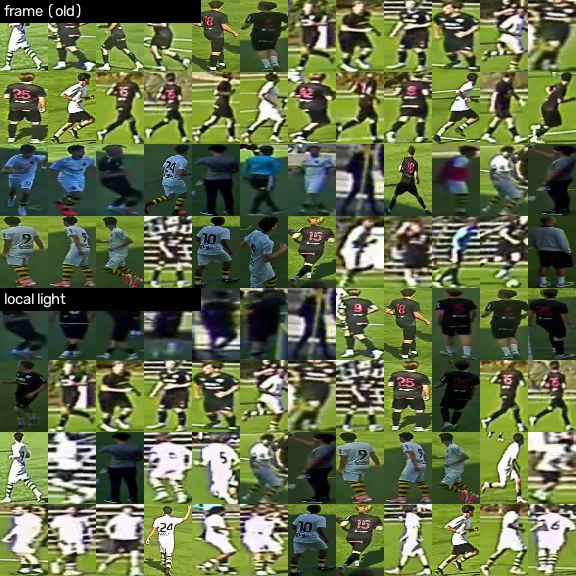
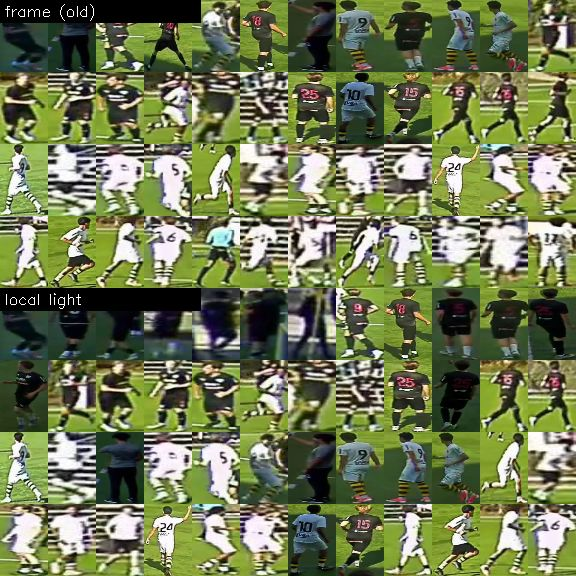
kits: P2b edge fallback only in even light (Vallentuna sun: bench let in, fit became sun vs shade); sun-washed people join the kit of their colour in local light (Vallentuna neither 3.5 -> 2.4 per frame, other grounds unchanged) [qa-frames:p15u-vs-vallentuna-2026-10-03-6cce] [full:SFKBP1109] [allow-
[full:SFKBP1109]: clean re-export of the first half with the current code (event tiers, pressed, Veo window filter:
no 'goal' at 0:28, no second-half goals); pieces cached, CPU.

Claude-Session: https://claude.ai/code/session_013ik1CRtD34J8661rJfnPBT

diff --git a/ipanema/kits.py b/ipanema/kits.py
@@ -62,6 +62,8 @@ def local_grass_L(frame, box, grass=None, hue_d=30.0, min_chroma=0.35, min_px=40
 LOCAL_REF_L = 110.0     # F1c: grass lightness every reading is brought to (a fixed value, so frames that are mostly shade
                         # and frames that are mostly sun give the same number for the same shirt)
 
+HUE_NEAR = 0.5
+HUE_KEEP = 15.0        # 4 Oct: a*b* gap between the two kits from which colour (not lightness) decides a doubtful person
 SHADE_SPREAD = 2.4     # F1c auto gate: p90/p10 of (grass at the feet / frame grass) over the fitting people
 
 def light_mode():
@@ -245,7 +247,17 @@ def classify(model, f, other_factor=2.0):
         sa, sb = [max(8.0, other_factor * x) for x in model["spreads"]]
         if da > sa and db > sb: return "other"
         return "A" if (da / sa if da > sa or db > sb else da) <= (db / sb if da > sa or db > sb else db) else "B"
-    if min(da, db) > max(8.0, other_factor * model["spread"]): return "other"
+    if min(da, db) > max(8.0, other_factor * model["spread"]):
+        # 4 Oct (Vallentuna, red vs black in hard sun): a sun-washed red shirt is far from both centres in lightness but
+        # still red. When the two kits differ clearly in colour (a*b* gap >= HUE_KEEP), a person whose colour is near one
+        # kit (within half the gap) joins it whatever the lightness. Black-vs-white matches (no colour gap) are untouched.
+        if os.environ.get("IPANEMA_KIT_HUE", "1") == "1" and model.get("light") == "local":     # hard sun + shade only
+            gap = float(np.linalg.norm(np.asarray(ta)[1:3] - np.asarray(tb)[1:3]))
+            if gap >= HUE_KEEP:
+                ha, hb = np.linalg.norm(np.asarray(f)[1:3] - np.asarray(ta)[1:3]), np.linalg.norm(np.asarray(f)[1:3] - np.asarray(tb)[1:3])
+                k, hk, tk = ("A", ha, ta) if ha <= hb else ("B", hb, tb)
+                if hk <= HUE_NEAR * gap and f[0] >= tk[0]: return k           # brighter than that kit (sun), same colour
+        return "other"
     return "A" if da <= db else "B"
 
 class KitTeamModel:
@@ -281,8 +293,13 @@ class KitTeamModel:
         # When it keeps less than this share, use the pitch-edge test instead. Other grounds keep 43-88% -> unchanged.
         fb_min = float(os.environ.get("IPANEMA_PITCH_FALLBACK", "0.35"))
         if pitch_only and pitch_test == "grass" and fb_min > 0 and (kept or dropped) and len(kept) / (len(kept) + dropped) < fb_min:
-            log(f"kits: grass test keeps only {len(kept)} of {len(kept) + dropped} people -> pitch-edge test instead")
-            dropped, kept = sample("edge"); self.pitch_test = "edge (fallback)"
+            # 4 Oct: only for evenly lit grounds (night). Vallentuna (hard sun + shade, spread 2.4-2.6) also keeps just 20% in
+            # the grass test, and the edge test there lets the bench and spectators in and the fit became sun vs shade.
+            sp = shade_spread([(f, b, grass_lab(f)) for f, bs in frames_boxes for b in bs if b[3] - b[1] >= 22])
+            if sp < SHADE_SPREAD:
+                log(f"kits: grass test keeps only {len(kept)} of {len(kept) + dropped} people (shade spread {sp:.1f}) -> pitch-edge test instead")
+                dropped, kept = sample("edge"); self.pitch_test = "edge (fallback)"
+            else: log(f"kits: grass test keeps only {len(kept)} of {len(kept) + dropped} people, but the light is uneven (shade spread {sp:.1f}): grass test kept")
         auto = os.environ.get("IPANEMA_KIT_AUTO", "1") == "1"
         # F1c (2 Oct): in hard sun + shade read lightness relative to the grass at the feet (AIK full: 130 -> 234/254
         # players in the right team); night and even-light grounds stay on the old reading (gate below 2.4)
@@ -306,7 +323,7 @@ class KitTeamModel:
             with np.errstate(all="ignore"): self.pair_shift = round(max(_team_shift(m, fit(X, pair="far")), _team_shift(fit(Xm, pair="big"), fit(Xm, pair="far")) if len(Xm) >= 8 else 0.0), 1)
             if (self.choice_missed >= missed_max or self.pair_shift > shift_max) and len(Xm) >= 8:
                 mf = fit(Xm, pair="far"); self.choice["far/mean"] = share(mf, smm); best = (None, mf, smm, "mean", "far")
-        _, self.model, self.samples, self.stat, self.pair = best; feats = [x[2] for x in self.samples]; ta, tb = self.model["teams"]
+        _, self.model, self.samples, self.stat, self.pair = best; feats = [x[2] for x in self.samples]; ta, tb = self.model["teams"]; self.model["light"] = self.light
         self.swap = ta[0] > tb[0]                                              # teams[0] lighter -> it is "B"
         self.dark_share = {"A": round(float(min(ta[0], tb[0]) * 2.5 / 255), 2), "B": round(float(max(ta[0], tb[0]) * 2.5 / 255), 2)}
         self.cls = []

diff --git a/tests/test_p2b_pitch_fallback.py b/tests/test_p2b_pitch_fallback.py
@@ -36,3 +36,11 @@ def test_fallback_off(monkeypatch):
     _patch(monkeypatch, 4); monkeypatch.setenv("IPANEMA_PITCH_FALLBACK", "0")
     m = K.KitTeamModel().fit_frames(_frames(np.random.default_rng(0)), log=lambda *a: None, player_cls=False)
     assert m.pitch_test == "grass" and len(m.samples) == 6 * 4
+
+def test_no_fallback_in_hard_sun(monkeypatch):
+    """4 Oct, Vallentuna: the grass test keeps 20% there too, but the light is uneven (sun + shade) and the edge test let the
+    bench in and the fit became sun vs shade. Uneven light -> grass test kept."""
+    _patch(monkeypatch, 4); monkeypatch.delenv("IPANEMA_PITCH_FALLBACK", raising=False); logs = []
+    monkeypatch.setattr(K, "shade_spread", lambda kept: 2.6)
+    m = K.KitTeamModel().fit_frames(_frames(np.random.default_rng(0)), log=logs.append, player_cls=False)
+    assert m.pitch_test == "grass" and any("light is uneven" in l for l in logs)
